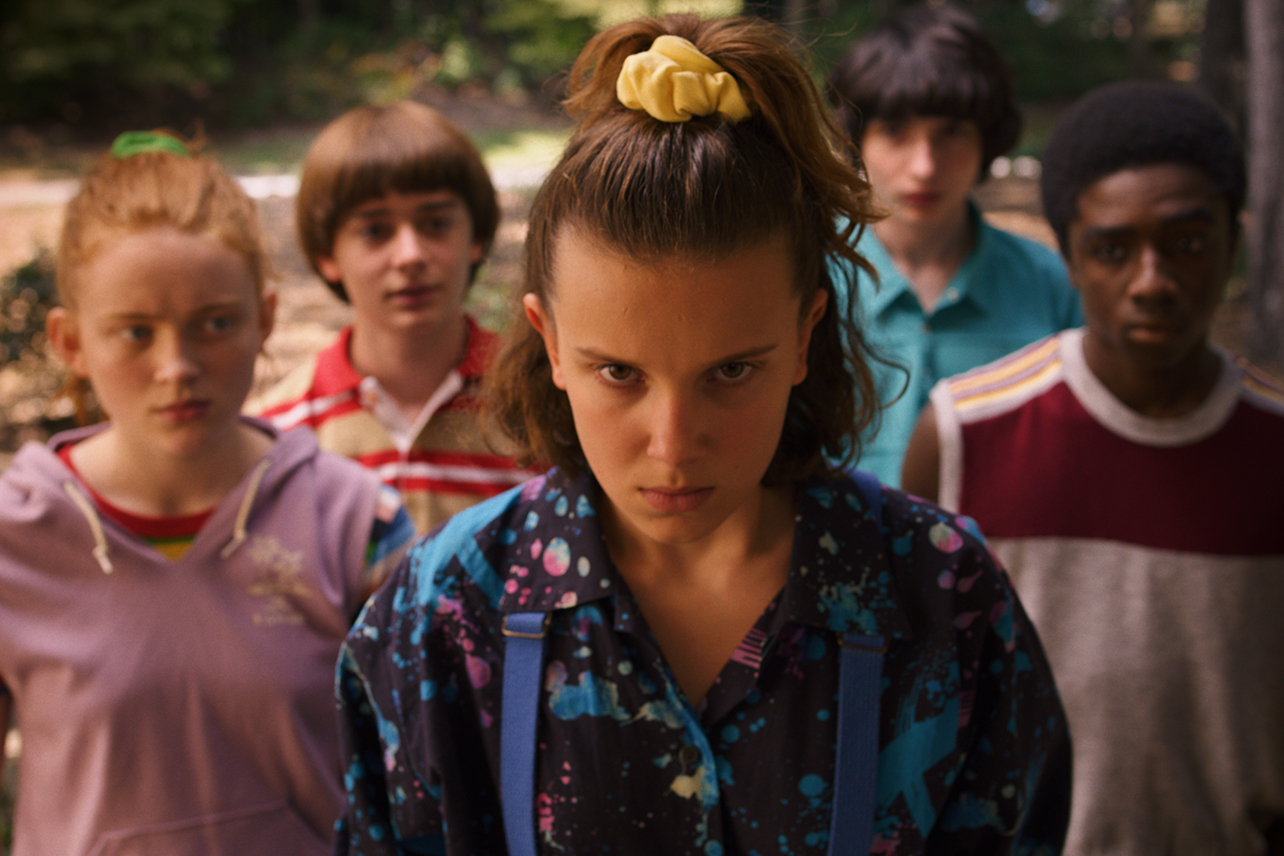
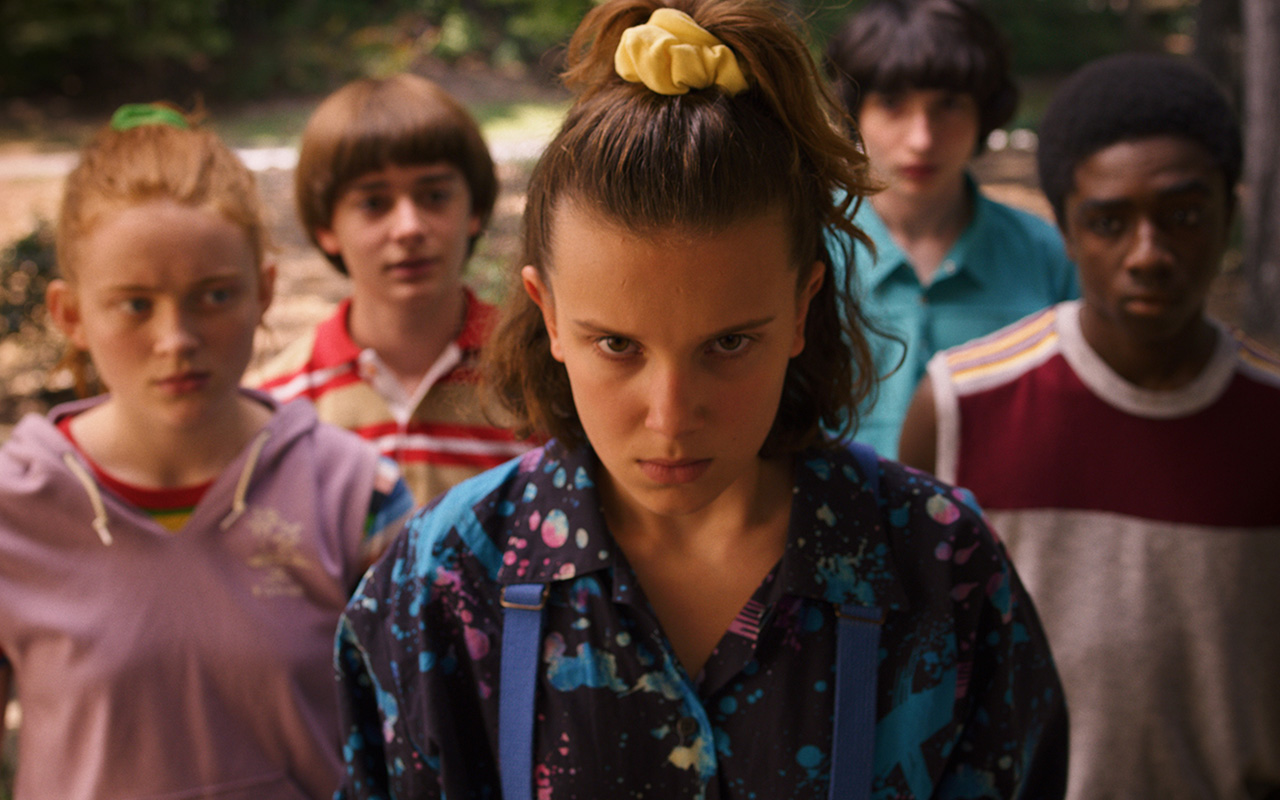
Changed photo sizes,added media queries 768+

diff --git a/recap.html b/recap.html
@@ -42,13 +42,13 @@
 
             <section class="maira">
              
-                    <h1>Previously on... Stranger Things</h1>
+                    <h1>Previously on...Stranger Things</h1>
                 
 
                 <div class="season-one">
                     <h2>Season 1</h2>
                     <aside>
-                        <img src="images/season1.jpeg" alt="Eleven Picture" width="500">
+                        <img src="images/season1.jpg" alt="Eleven Picture">
                     </aside>
                     <article>
                         <p>The first season of Stranger Things premiered on Netflix on July 15, 2016. It consists of eight episodes ranging from forty-two to fifty-five minutes in length. The show is set in the fictional town of Hawkins, Indiana in 1983. The first season begins in November 1983, when Will Byers is abducted by a creature from the Upside Down. His mother, Joyce, and the town's police chief, Jim Hopper, search for Will. At the same time, a young psychokinetic girl called Eleven escapes from the laboratory and assists Will's friends, Mike, Dustin, and Lucas, in their own efforts to find Will.</p>
@@ -57,7 +57,7 @@
                 <div class="season-two">
                     <h2>Season 2</h2>
                     <aside>
-                        <img src="images/season2a.jpeg" alt="Season 2 Picture" width="500">
+                        <img src="images/season2a.jpg" alt="Season 2 Picture" >
                     </aside>
                     <article>
                         <p>When season two’s main plot kicks off, the gang are trying to get back to normal with Mike desperately sad about Eleven’s absence. Besides that, a year after Will's return, everything seems back to normal... but a darkness lurks just beneath the surface, threatening all of Hawkins. It's 1984 and the citizens of Hawkins, Indiana are still reeling from the horrors of the demagorgon and the secrets of Hawkins Lab. Will Byers has been rescued from the Upside Down but a bigger, sinister entity still threatens those who survived.</p>
@@ -66,7 +66,7 @@
                 <div class="season-three">
                     <h2>Season 3</h2>
                     <aside>
-                        <img src="images/season3.jpeg" alt="Season 3 Picture" width="500">
+                        <img src="images/season3.jpeg" alt="Season 3 Picture" >
                     </aside>
                     <article>
                         <p>In the summer of 1985 in Hawkins, the newly opened Starcourt Mall has become the focal point of the town, driving other stores out of business. Hawkins chief of police, Jim Hopper, disapproves of Eleven and Mike's budding relationship, while Joyce considers moving out of Hawkins for a better life for her children and herself. Joyce notices something strange going on with her magnets and decides to investigate. However, strange power fluctuations trigger Will's awareness of something otherworldly, and Eleven and Max sense something is off about the town's residents. Despite having closed the portal to the Upside Down, they fear that they are all still in danger from it. The friends work together to help Max's brother Billy while Hopper and Joyce have their own adventure.</p>

diff --git a/css/style.css b/css/style.css
@@ -83,16 +83,13 @@ body {
 	font-size: .875em;
 }
 
+/*======= Universal  Styling =======*/
+
 
 /*======= Main Styling =======*/
 
 
-/*======= Previously OnStyling =======*/
 
-.maira {
-	max-width: 600px;
-	margin: 0 auto;
-}
 
 
 
@@ -115,14 +112,27 @@ Subpage 1 Styling
 
 
 /*=================================
-Subpage 2 Styling
+Previously On  Styling
 ==================================*/
 
 
+.maira {
+	max-width: 900px;
+	margin: 0 auto;
+}
 
+.maira h1 {
+	margin: 100px 0 40px 0;
+}
 
+.maira p {
+	padding: 10px 0;
+	line-height: 1.4;
+}
 
-
+.maira img {
+	max-width: 100%;
+}
 
 
 
@@ -253,6 +263,11 @@ Media Querries
 		padding: .2em 2.5%;
 	}
 
+	.season-one,
+	.season-two,
+	.season-three {
+		display: flex;
+	}
 
 
 /*----Subpage 1 Code for 768MQ----*/
